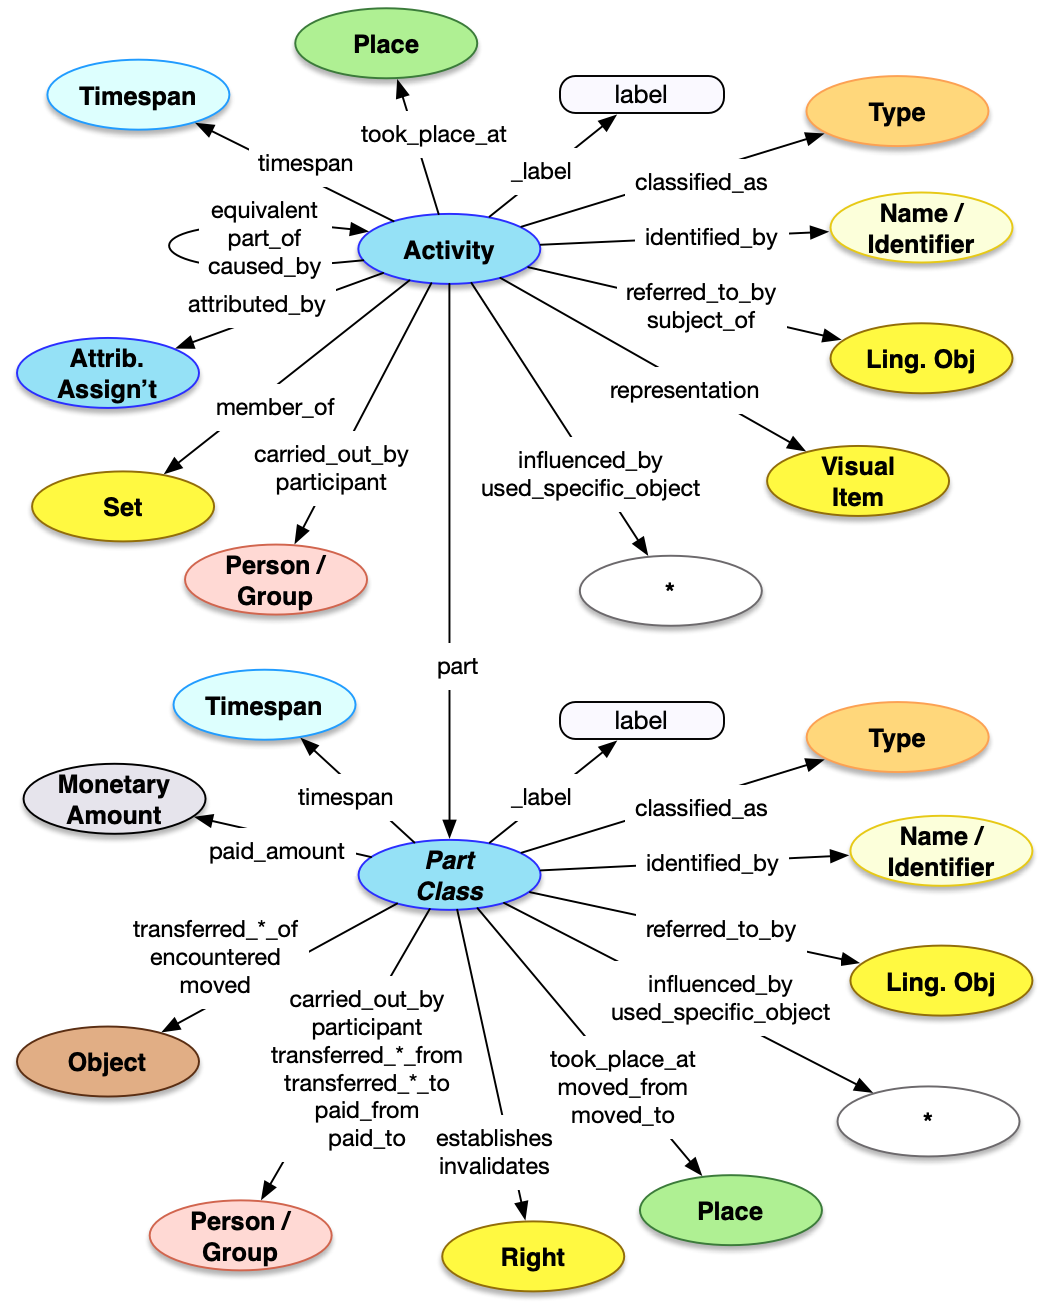
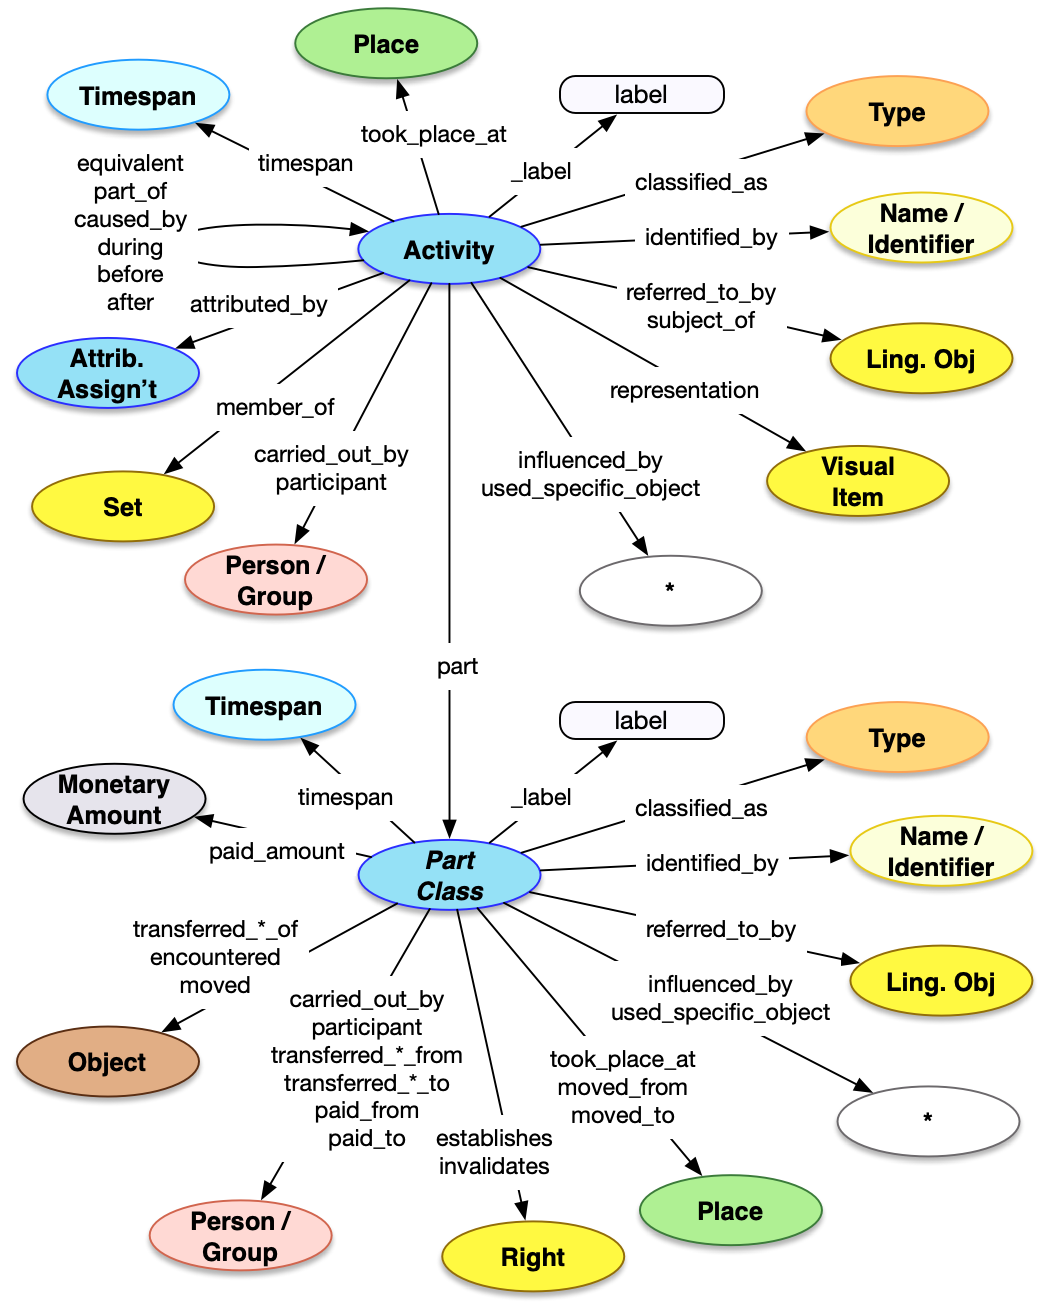
before,after

Changed region(s): [[0.061, 0.1225, 0.3051, 0.245]]

diff --git a/docs/api/1.0/endpoint/event/index.md b/docs/api/1.0/endpoint/event/index.md
@@ -33,7 +33,9 @@ Dereferencing an entity via the Event endpoint would result in a JSON-LD documen
 | `attributed_by`   | array         | Optional    | An array of json objects, each of which is a [Relationship Assignment](../../shared/assignment/) that relates the current event to another entity |
 | `part_of` | array | Optional | An array of json objects, each of which is a [reference](../../shared/reference/) to another Event that the current event is directly a part of. |
 | `timespan`        | json object   | Recommended | A json object recording when the event occured, which MUST follow the requirements for [timespans](../../shared/timespan/)|
-| `during`          | array         | Optional    | An array of json objects, each of which is a [reference](../../shared/reference) to a broad [Period](../event/) during which this event occured | 
+| `during`          | array         | Optional    | An array of json objects, each of which is a [reference](../../shared/reference) to a broad [Period](../event/) during which this event occured |
+| `before`          | array         | Optional    | An array of json objects, each of which is a [reference](../../shared/reference) to a Period, Event or Activity before which this event occured |
+| `after`          | array         | Optional    | An array of json objects, each of which is a [reference](../../shared/reference) to a Period, Event or Activity after which this event occured |
 | `took_place_at`   | array         | Optional    | An array of json objects, each of which is a [reference](../../shared/reference/) to a [Place](../place/) where the event occured |
 | `caused_by`       | array         | Optional    | An array of json objects, each of which is a [reference](../../shared/reference/) to another Event that caused this event to occur. **Only usable when the `type` is `"Event"` or `"Activity"`** |
 | `influenced_by`   | array         | Optional    | An array of json objects, each of which is a [reference](../../shared/reference/) to an entity that influenced the event in some noticable fashion.  **Only usable when the `type` is `"Activity"`** | 

diff --git a/docs/api/1.0/shared/activity/index.md b/docs/api/1.0/shared/activity/index.md
@@ -27,7 +27,9 @@ The activity data structure has the following properties.
 | `referred_to_by`  | array         | Optional    | An array of json objects, each of which is an embedded [statement](../statement/) about the activity |
 | `took_place_at`   | array         | Optional    | An array of json objects, each of which is a [reference](../../shared/reference/) to a [Place](../place/) where the activity occured |
 | `timespan`        | json object   | Optional    | A json object which describes when the activity occured, and MUST follow the requirements for [timespans](../timespan/)|
-| `during`          | array         | Optional    | An array of json objects, each of which is a [reference](../../shared/reference) to a [Period](../event/) during which the activity occured | 
+| `during`          | array         | Optional    | An array of json objects, each of which is a [reference](../../shared/reference) to a [Period](../event/) during which the activity occured |
+| `before`          | array         | Optional    | An array of json objects, each of which is a [reference](../../shared/reference) to a Period, Event or Activity before which this event occured |
+| `after`          | array         | Optional    | An array of json objects, each of which is a [reference](../../shared/reference) to a Period, Event or Activity after which this event occured |
 | `caused_by`       | array         | Optional    | An array of json objects, each of which is a [reference](../../shared/reference/) to an [Event](../event/) that caused this event to occur |
 | `carried_out_by`  | array         | Optional    | An array of json objects, each of which is a [reference](../reference/) to a [Person](../../endpoint/person) or [Group](../../endpoint/group) which carried out the activity. **NOT usable when the `type` is `"Birth"` or `"Death"`**|
 | `influenced_by`   | array         | Optional    | An array of json objects, each of which is a [reference](../../shared/reference/) to an entity that influenced or motivated the activity in some noticable fashion. **NOT usable when the `type` is `"Birth"` or `"Death"`** | 

diff --git a/docs/api/1.0/shared/assignment/index.md b/docs/api/1.0/shared/assignment/index.md
@@ -26,7 +26,9 @@ The relationship assignment data structure has the following properties.
 | `referred_to_by`  | array         | Optional    | An array of json objects, each of which is an embedded [statement](../statement/) about the assignment |
 | `carried_out_by`  | array         | Optional    | An array of json objects, each of which is a [reference](../reference/) to a [Person](../../endpoint/person) or [Group](../../endpoint/group) which made the assignment|
 | `timespan`        | json object   | Optional    | A json object which describes when the relationship was assigned, and MUST follow the requirements for [timespans](../timespan/)|
-| `during`          | array         | Optional    | An array of json objects, each of which is a [reference](../../shared/reference) to a [Period](../event/) during which the Assignment occured | 
+| `during`          | array         | Optional    | An array of json objects, each of which is a [reference](../../shared/reference) to a [Period](../event/) during which the Assignment occured |
+| `before`          | array         | Optional    | An array of json objects, each of which is a [reference](../../shared/reference) to a Period, Event or Activity before which this Assignment occured |
+| `after`          | array         | Optional    | An array of json objects, each of which is a [reference](../../shared/reference) to a Period, Event or Activity after which this Assignment occured |
 | `influenced_by`    | array         | Optional    | An array of json objects, each of which is a [reference](../reference/) to another entity which influenced or motivated the assignment |
 | `caused_by`       | array         | Optional    | An array of json objects, each of which is a [reference](../../shared/reference/) to an [Event](../event/) that caused the assignment to occur |
 | `used_specific_object` | array    | Optional    | An array of json objects, each of which is a [reference](../reference/) to another endpoint that was instrumental in the assignment |

diff --git a/docs/api/1.0/endpoint/provenance_activity/index.md b/docs/api/1.0/endpoint/provenance_activity/index.md
@@ -35,7 +35,9 @@ The top level Activity has the following properties.
 | `attributed_by`   | array         | Optional    | An array of json objects, each of which is a [Relationship Assignment](../../shared/assignment/) that relates the current event to another entity |
 | `part_of` | array | Optional | An array of json objects, each of which is a [reference](../../shared/reference/) to another event that the current event is a part of. |
 | `timespan`        | json object   | Recommended | A json object recording when the event occured, which MUST follow the requirements for [timespans](../../shared/timespan/)|
-| `during`          | array         | Optional    | An array of json objects, each of which is a [reference](../../shared/reference) to a [Period](../event/) during which the provenance activity occured | 
+| `during`          | array         | Optional    | An array of json objects, each of which is a [reference](../../shared/reference) to a [Period](../event/) during which the provenance activity occured |
+| `before`          | array         | Optional    | An array of json objects, each of which is a [reference](../../shared/reference) to a Period, Event or Activity before which this event occured |
+| `after`          | array         | Optional    | An array of json objects, each of which is a [reference](../../shared/reference) to a Period, Event or Activity after which this event occured |
 | `took_place_at`   | array         | Optional    | An array of json objects, each of which is a [reference](../../shared/reference/) to a [Place](../place/) where the event occured |
 | `caused_by`       | array         | Optional    | An array of json objects, each of which is a [reference](../../shared/reference/) to an [Event](../event/) that caused the event to occur |
 | `influenced_by`   | array         | Optional    | An array of json objects, each of which is a [reference](../../shared/reference/) to an entity that influenced the event in some noticable fashion | 
